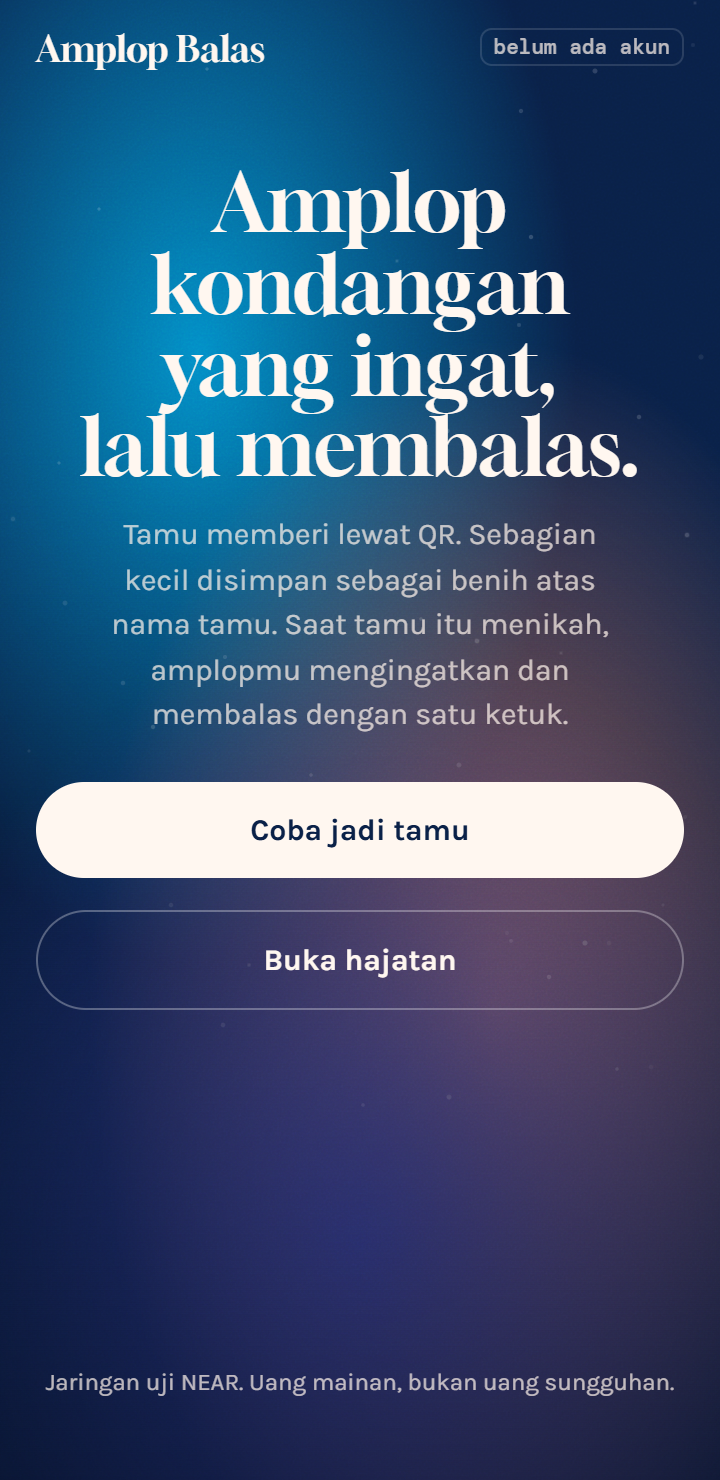
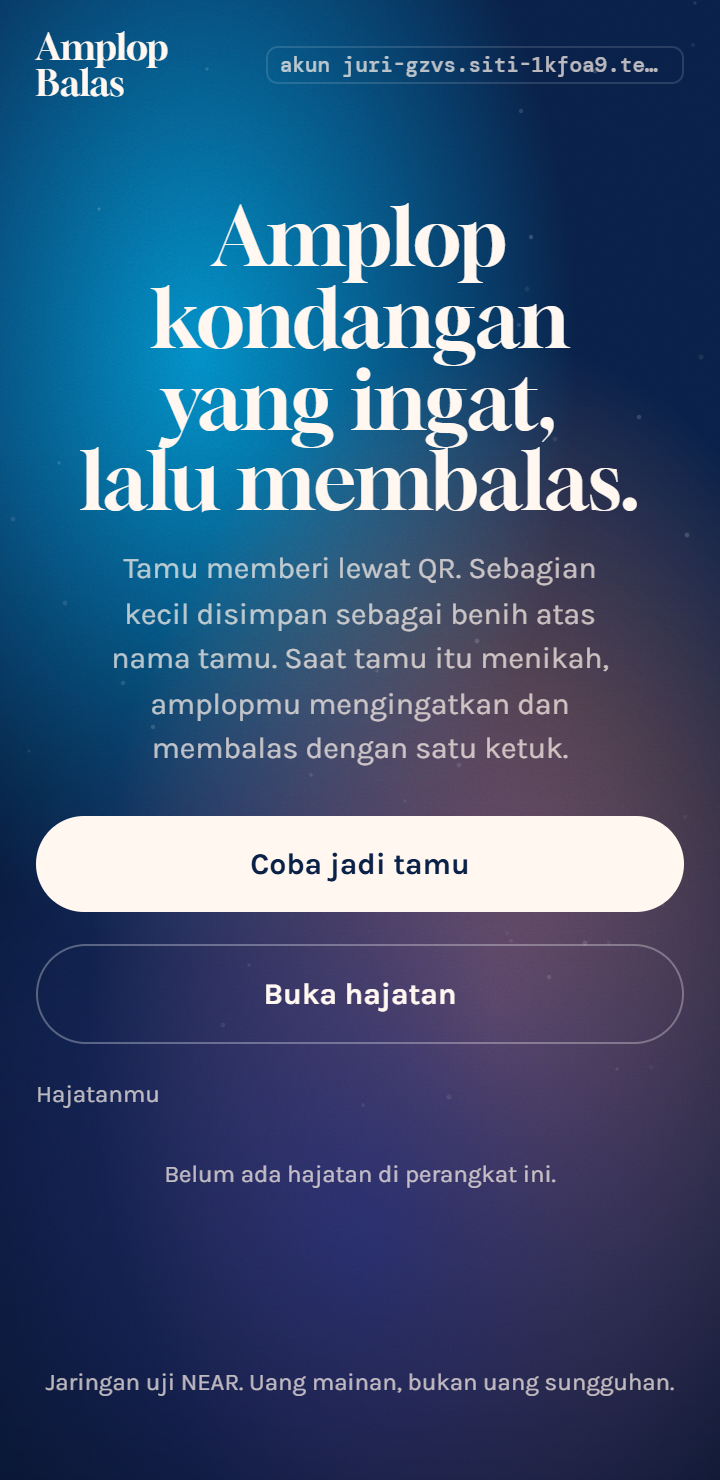
uji: akun duduk saat helper membatasi, laporan serangan Inggris, uji geser, batas helper ditulis

diff --git a/README.md b/README.md
@@ -33,6 +33,13 @@ Each reply is itself an entry with its own seed, so the chain of giving back can
 - **The rights move with the NFT.** Pass the amplop to a child and the money, the book and the promises go with it. The previous holder is locked out.
 - **The seed is a promise kept by code.** It can only ever go to the guest who gave it. Nobody can quietly withdraw it.
 
+## Why NEAR
+
+- **A contract can give up every key.** The account behind this contract has none, so the rules cannot change. That is what makes a 20-year promise believable.
+- **Whoever adds data pays for its storage.** Each gift covers the storage of its own entry, so a long guest list does not fall on the host, and spam pays for itself.
+- **Accounts have names.** A guest is `budi-….testnet`, not a hex string, which matters when a family reads its own book.
+- **The missing pieces are native.** Google login (NEAR Auth) and sponsored gas (NEP-366) are the next steps on the [roadmap](docs/ROADMAP.md), not add-ons from elsewhere.
+
 ## Try it
 
 No install. Works on a phone. Amounts in rupiah use a demo rate, marked on screen (1 NEAR = Rp500.000); testnet NEAR has no price. The app speaks Indonesian: *Coba jadi tamu* = try as a guest, *Buka hajatan* = open a celebration.
@@ -68,7 +75,7 @@ cd frontend && npm run dev
 ```
 See a local site on http://localhost:5173, talking to the same testnet contract. Add `?mock` before the `#` to work without the network.
 
-Live checks. These use the network and make throwaway testnet accounts through the public helper, which rate-limits, so run them a minute apart.
+Live checks. These use the network and make throwaway testnet accounts through NEAR's public helper. The helper rate-limits by IP: after about a dozen accounts in a morning it answered `retry in 11 hours`. If that happens, set `E2E_PARENT` or `ATTACK_ROOT` to a JSON file with `{ accountId, secret }` of a funded testnet account; the scripts explain how.
 
 ```bash
 cd frontend && LIVE=1 npx vitest run src/chain/near.live.test.ts
@@ -83,7 +90,7 @@ See 12 `PASS` lines, one per attack, against the deployed contract. Report: [`do
 ```bash
 cd frontend && node e2e/alur.e2e.mjs
 ```
-See 13 `PASS` lines: the whole story on the deployed site in a real browser engine, the guest on a 360 px touch screen. Set `CHROME` to your browser's path if it is not the Windows default. Report and screenshots: [`docs/evidence/`](docs/evidence/).
+See `PASS` on every line: the whole story on the deployed site in a real browser engine, the guest on a 360 px touch screen. Set `CHROME` to your browser's path if it is not the Windows default. Report and screenshots: [`docs/evidence/`](docs/evidence/).
 
 Rebuild the wasm (optional, the deployed contract already matches this source):
 

diff --git a/docs/THREAT-MODEL.md b/docs/THREAT-MODEL.md
@@ -35,6 +35,6 @@ Written from the point of view of someone trying to keep or steal money.
 - **A seller can empty free money before selling.** A buyer must read `hajatan(token_id)` first. Seeds are safe; free money is the seller's until the sale.
 - **Guest keys live in the browser.** Clear the browser or change phones and that account is gone, so the old amplop can no longer find the guest. See [Roadmap](ROADMAP.md).
 - **Script on the page could read test keys.** The Content Security Policy narrows this. It does not remove it.
-- **The testnet helper is a dependency.** If it is down or rate-limits, new guests cannot get an account.
+- **The testnet helper is a dependency.** If it is down or rate-limits, new guests cannot get an account. The limit is per IP (we hit "retry in 11 hours" after about a dozen accounts), so many guests on one Wi-Fi would run into it.
 - **Unused seeds stay locked.** If a guest never hosts, the seed never leaves. There is no expiry.
 - **A host can ignore the ring.** "Later" changes nothing, and nothing forces a reply. The seed is a promise of the first step, not of the whole amount.
